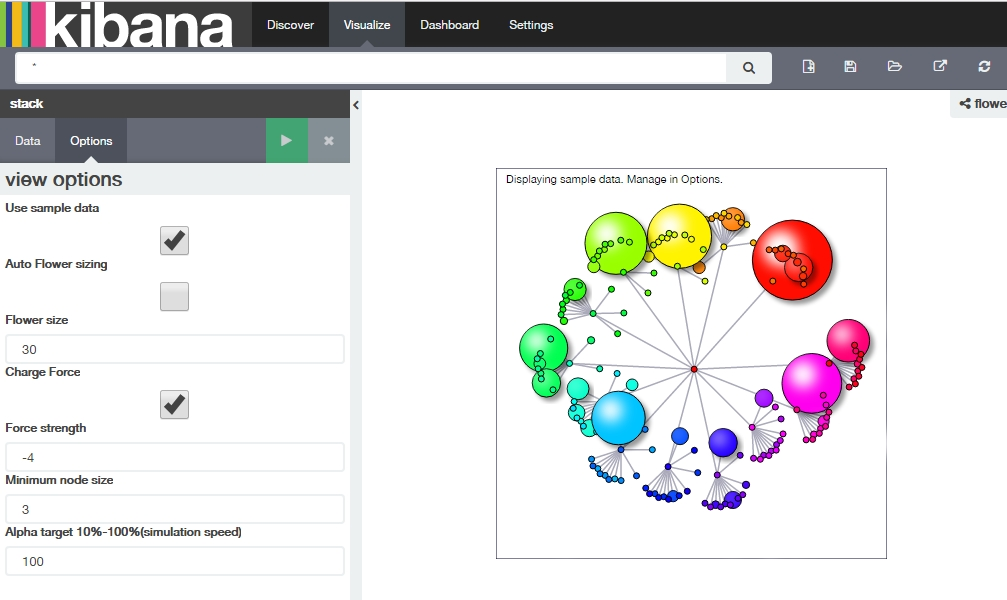
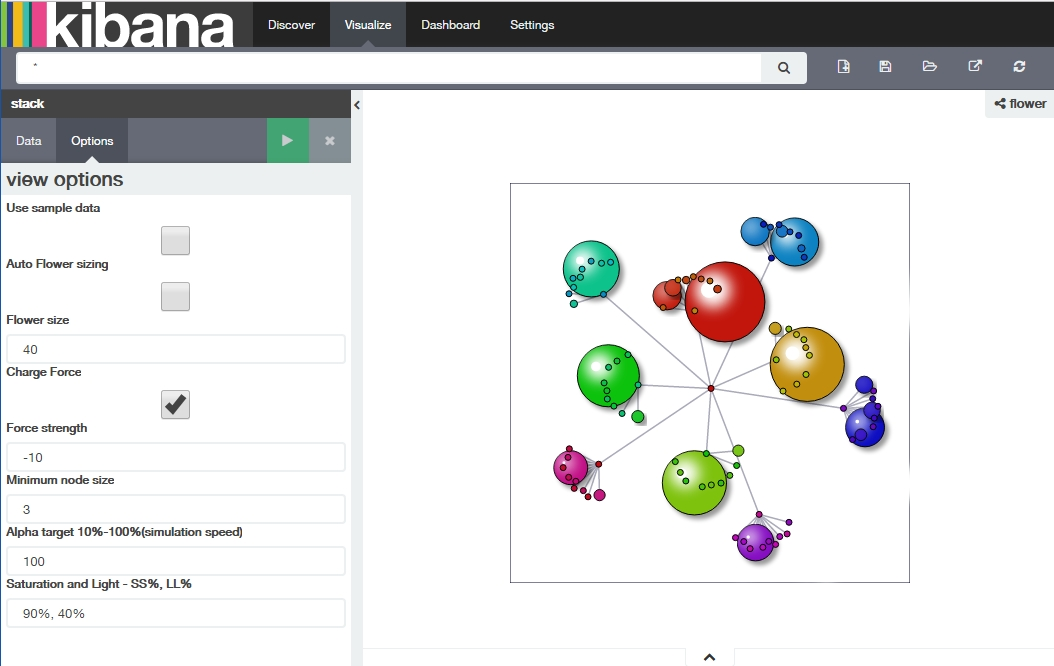
3D improvements + hsl parameter

diff --git a/public/lib/vis_flower.js b/public/lib/vis_flower.js
@@ -145,16 +145,22 @@ define(function (require) {
                 nodeSvg.append("circle")
                     .attr("class", "node")
         //          .classed("collapsed", function(d) { return d.data.collapsed ? true : false; }) // adds collapsed class if param exists, currently class not defined
-                    .classed("filtered-shadow", function(d) { return d.data.size * sizeScale > 10 ? true : false;}) // classing and attr(class) sequence is important. shadow only above 10 size
+                    .classed("filtered-shadow", function(d) { return d.data.size * sizeScale > 6 ? true : false;}) // classing and attr(class) sequence is important. shadow only above 6 size
                     .attr("r", function(d) { return Math.max(locParams.minNodeSize, d.data.size * sizeScale);})
-                    .style("fill", function color(d) { return "hsl(" + (360/newJson.total)*d.data.id +", 100%, 50%)";}); // color is evenly distributed between all nodes by id
+                    .style("fill", function color(d) { return "hsl(" + (360/newJson.total)*d.data.id + ", " + locParams.hsld;}); // color is evenly distributed between all nodes by id
                 nodeSvg.append("circle")    // the sphere effect is added by a white smaller circle that is first offset here and then blurred in a filter
                     .attr("class", "nodesphere")
                     .classed("filtered-blur", true) // will be blured in filter by browser
                     .attr("r", function(d) { return d.data.size * sizeScale * 0.45;})   // reduce diameter
                     .attr("cx", function(d) { return -d.data.size * sizeScale * 0.3;})  // offset centre
                     .attr("cy", function(d) { return -d.data.size * sizeScale * 0.3;})  // offset centre
-                    .style("fill", "#fff"); // white color                
+                    .style("fill", "#fff"); // white color     
+                nodeSvg.append("circle")    // the sphere effect circle is added as white smaller circle
+                    .attr("class", "nodesphere")
+                    .attr("r", function(d) { return d.data.size * sizeScale  > 15 ? d.data.size * sizeScale * d.data.size * sizeScale * 0.005 : 0;})   // reduce diameter
+                    .attr("cx", function(d) { return -d.data.size * sizeScale * 0.4;})  // offset centre
+                    .attr("cy", function(d) { return -d.data.size * sizeScale * 0.3;})  // offset centre
+                    .style("fill", "#fff"); // white color
                 // restart simulation
                 simulation.alphaTarget(locParams.alphaTarget/100).restart();
                 // add hidden text to each node

diff --git a/public/aggs-flower-params.html b/public/aggs-flower-params.html
@@ -14,5 +14,7 @@
         <input type="number" ng-model="vis.params.vparams.minNodeSize" class="form-control" min="1" max="5">
         <label>Alpha target 10%-100%(simulation speed)</label>
         <input type="number" ng-model="vis.params.vparams.alphaTarget" class="form-control" min="10" max="100" step="10">
+        <label>Saturation and Light - SS%, LL%</label>
+        <input type="text" ng-model="vis.params.vparams.hsld" class="form-control">
     </div>
 </div>

diff --git a/public/aggs-flower.js b/public/aggs-flower.js
@@ -29,7 +29,8 @@ define(function (require) {
                         charge: true,
                         fstrength: -6,
                         minNodeSize: 3,
-                        alphaTarget: 50
+                        alphaTarget: 50,
+                        hsld: "90%, 45%"
                     }
             }
         },
